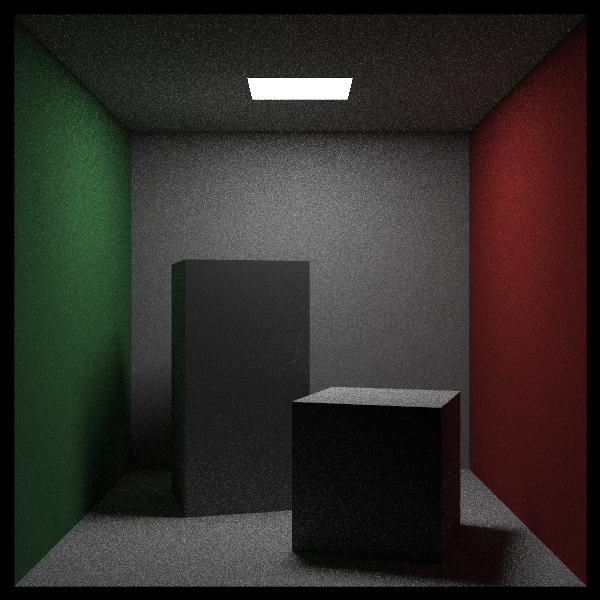
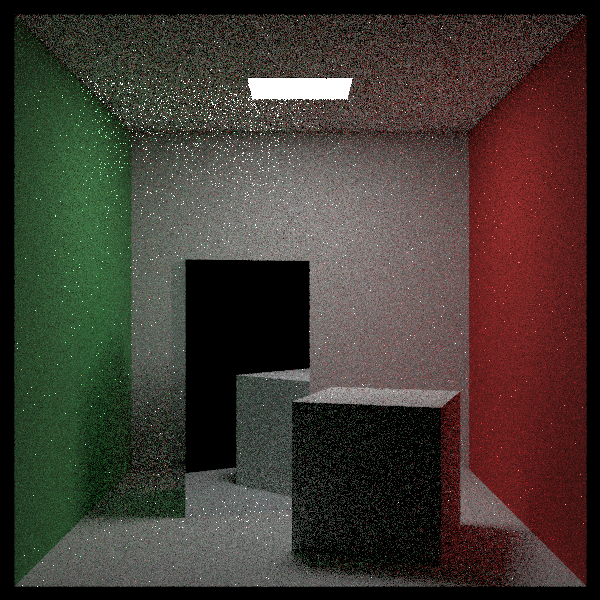
pdf for metal and dielectric

diff --git a/Assets/Editor/Tracing/Material.cs b/Assets/Editor/Tracing/Material.cs
@@ -10,12 +10,13 @@ using vec3 = UnityEngine.Vector3;
 namespace RT1
 {
     class ScatterRecord
-    { 
-        
+    {
+        public vec3 attenuation;
+        public PDF pdf;
     }
     interface Material
     {
-        bool Scatter(Ray ray, HitRecord hitRecord, out vec3 attenuation, out Ray scattered,out float pdf);
+        bool Scatter(Ray ray, HitRecord hitRecord, out ScatterRecord sRecord);
         float Scatter_PDf(Ray ray, HitRecord hitRecord, Ray scattered);
         vec3 Emitted(Ray ray, HitRecord hitRecord, float u, float v, vec3 pos);
     }
@@ -84,22 +85,45 @@ namespace RT1
             return new vec3(0, 0, 0);
         }
 
-        public bool Scatter(Ray ray, HitRecord hitRecord, out vec3 attenuation, out Ray scattered, out float pdf)
+        public bool Scatter(Ray ray, HitRecord hitRecord, out ScatterRecord sRecord)
         {
+            sRecord = new ScatterRecord();
             //half vector
             //scattered = new Ray(hitRecord.point, hitRecord.normal *0.5f + Exten.RandomHalfVecInSphere(), ray.time);
-            ONB uvw = new ONB(hitRecord.normal);
-            var nextDir = uvw.Local(Exten.RandomCosineDir());
+            //ONB uvw = new ONB(hitRecord.normal);
+            //var nextDir = uvw.Local(Exten.RandomCosineDir());
             //var nextDir = uvw.Local(Exten.RandomUniformCosineDir());
-            scattered = new Ray(hitRecord.point, nextDir, ray.time);
-            attenuation = color.sample(hitRecord.u,hitRecord.v,hitRecord.point);
-            pdf =  1.0f / (glm.dot(hitRecord.normal, nextDir) * MathF.PI);
+            //scattered = new Ray(hitRecord.point, nextDir, ray.time);
+            sRecord.attenuation = color.sample(hitRecord.u,hitRecord.v,hitRecord.point);
+            sRecord.pdf = CosinePDF.Default;
             return true;
         }
 
         public float Scatter_PDf(Ray ray, HitRecord hitRecord, Ray scattered)
         {
             return glm.dot(hitRecord.normal, scattered.direction) /MathF.PI;
+        }
+    }
+    class ConstPDF : PDF
+    {
+        private vec3 _reflected;
+
+        public ConstPDF(vec3 nextDir)
+        {
+            _reflected = nextDir;
+        }
+        public vec3 Generate(vec3 point, vec3 normal)
+        {
+            return _reflected;
+        }
+
+        public float Value(Ray ray, vec3 normal)
+        {
+            return 1;
+        }
+        public bool IsConst()
+        {
+            return true;
         }
     }
     class Metal : Material
@@ -111,9 +135,9 @@ namespace RT1
             color = c;
             fuzz = f;
         }
-        public bool Scatter(Ray ray, HitRecord hitRecord, out vec3 attenuation, out Ray scattered,out float pdf)
+        public bool Scatter(Ray ray, HitRecord hitRecord, out ScatterRecord sRecord)
         {
-            pdf = 1;
+            sRecord = new ScatterRecord();
             var normal = hitRecord.normal;
             var point = hitRecord.point;
             var reflected = Exten.reflect(ray.direction, normal);
@@ -121,8 +145,8 @@ namespace RT1
             {
                 reflected = reflected + fuzz * Exten.RandomVecInSphere();
             }
-            scattered = new Ray(point, reflected, ray.time);
-            attenuation = color;
+            sRecord.attenuation = color;
+            sRecord.pdf = new ConstPDF(reflected);
             return glm.dot(ray.direction, normal) < 0;
         }
         public vec3 Emitted(Ray ray, HitRecord hitRecord, float u, float v, vec3 pos)
@@ -151,11 +175,9 @@ namespace RT1
             return _text.sample(u, v, pos);
         }
 
-        public bool Scatter(Ray ray, HitRecord hitRecord, out vec3 attenuation, out Ray scattered,out float pdf)
+        public bool Scatter(Ray ray, HitRecord hitRecord, out ScatterRecord sRecord)
         {
-            scattered = null;
-            attenuation = new vec3();
-            pdf = 1;
+            sRecord = null;
             return false;
         }
 
@@ -189,12 +211,12 @@ namespace RT1
         {
             return new vec3(0, 0, 0);
         }
-        public bool Scatter(Ray ray, HitRecord hitRecord, out vec3 attenuation, out Ray scattered,out float pdf)
+        public bool Scatter(Ray ray, HitRecord hitRecord, out ScatterRecord sRecord)
         {
-            pdf = 1;
+            sRecord = new ScatterRecord();
             var normal = hitRecord.normal;
             var point = hitRecord.point;
-            attenuation = new vec3(1.0f, 1.0f, 1.0f);
+            sRecord.attenuation = new vec3(1.0f, 1.0f, 1.0f);
             float eta = ref_idx;
             var n = normal;
 
@@ -219,12 +241,13 @@ namespace RT1
             if (Exten.rand01() < prob)
             {
                 vec3 reflected = Exten.reflect(ray.direction, normal);
-                scattered = new Ray(point, reflected, ray.time);
+                sRecord.pdf = new ConstPDF(reflected);
             }
             else
             {
-                scattered = new Ray(point, r, ray.time);
+                sRecord.pdf = new ConstPDF(r);
             }
+
             return true;
 
         }

diff --git a/Assets/Editor/Tracing/AssetsTest.cs b/Assets/Editor/Tracing/AssetsTest.cs
@@ -31,19 +31,16 @@ namespace RT1
         static Sphere s3 = new Sphere(new vec3(1, 0, -1), 0.5f, new Metal(new vec3(0.8f, .6f, .2f)));
         static Sphere s4 = new Sphere(new vec3(-1, 0, -1), 0.5f, new Dieletric(2.4f));
         static Hitable scene = new HitList(new Hitable[] { s1, s2, s3, s4 });
-        static PDF cosPDf = new CosinePDF();
-        static PDF lightPDf;
-        static PDF mixturePdf;
+        static PDF _lightPDf;
         static vec3 RayTracing(Ray r, int depth)
         {
             HitRecord record;
             if (scene.Hit(r, 0.001f, 100000.0f, out record))
             {
                 Ray nextRay;
-                vec3 color;
                 var emmited = record.mat.Emitted(r,record, record.u, record.v, record.point);
-                float pdf = 1.0f;
-                if (depth < 50 && record.mat.Scatter(r, record, out color, out nextRay,out pdf))
+                ScatterRecord sRecord;
+                if (depth < 50 && record.mat.Scatter(r, record, out sRecord))
                 {
                     //if(Exten.rand01() < 0.5)
                     //{
@@ -65,13 +62,17 @@ namespace RT1
                     //    pdf = l * l  /(nextRay.direction.y * area);
                     //}
 
-
+                    var mixturePdf = sRecord.pdf;
+                    if (!mixturePdf.IsConst())
+                    {
+                        mixturePdf = new MixPDF(sRecord.pdf, _lightPDf);
+                    }
                     var nextdir = mixturePdf.Generate(record.point, record.normal);
                     nextRay = new Ray(record.point, nextdir, r.time);
-                    pdf = mixturePdf.Value(nextRay, record.normal); 
+                    float pdf = mixturePdf.Value(nextRay, record.normal); 
                     var nextColor = RayTracing(nextRay, depth + 1);
                     float scatterPdf = record.mat.Scatter_PDf(r, record, nextRay);
-                    return emmited +   color.mul(nextColor) * scatterPdf / pdf;
+                    return emmited +   sRecord.attenuation.mul(nextColor) * scatterPdf / pdf;
                 }
                 else
                 {
@@ -221,6 +222,8 @@ namespace RT1
             var red = new Lambertian(new vec3(0.65f, 0.05f, 0.05f));
             var white = new Lambertian(new vec3(0.73f, 0.73f, 0.73f));
             var green = new Lambertian(new vec3(0.12f, 0.45f, 0.15f));
+            Material aluminum = new Metal(new vec3(0.8f, 0.85f, 0.88f));
+
             var light = new DiffuseLight(new SolidTexture(new vec3(15, 15, 15)));
             int i = 0;
             Hitable[] hitables = new Hitable[8];
@@ -232,14 +235,13 @@ namespace RT1
             hitables[i++] = new XZRect(555, 0, 555, 0, 555, white,true);
             hitables[i++] = new XYRect(555, 0, 555, 0, 555, white,true);
 
-            Hitable box = new Box(new vec3(0, 0, 0), new vec3(165, 165, 165), white);
+            Hitable box = new Box(new vec3(0, 0, 0), new vec3(165, 165, 165), aluminum);
             box = new Tranlate(new RotateY(box, -18), new vec3(130, 0, 65));
             hitables[i++] = box;
             Hitable box2 = new Box(new vec3(0, 0, 0), new vec3(165, 330, 165), white);
             box2 = new Tranlate(new RotateY(box2, 15), new vec3(265, 0, 295));
             hitables[i++] = box2;
-            lightPDf = new LightPDF(lightRect);
-            mixturePdf = new MixPDF(cosPDf, lightPDf);
+            _lightPDf = new LightPDF(lightRect);
             return new HitList(hitables.Where(p=>p!=null).ToArray());
         }
 #if UNITY_EDITOR

diff --git a/Assets/Editor/Tracing/PDF.cs b/Assets/Editor/Tracing/PDF.cs
@@ -13,6 +13,7 @@ namespace RT1
     {
         float Value(Ray ray, vec3 normal);
         vec3 Generate(vec3 point,vec3 normal);
+        bool IsConst();
     }
     class CosinePDF : PDF
     {
@@ -32,6 +33,13 @@ namespace RT1
             }
             return cos /MathF.PI;
         }
+
+        public bool IsConst()
+        {
+            return false;
+        }
+
+        public static PDF Default = new CosinePDF();
     }
 
     class LightPDF : PDF
@@ -48,6 +56,11 @@ namespace RT1
             var z = Exten.randRange(_lightArea._z1, _lightArea._z2);
             var onLight = new vec3(x, _lightArea._y, z);
             return glm.normalize(onLight - point);
+        }
+
+        public bool IsConst()
+        {
+            return false;
         }
 
         public float Value(Ray ray, vec3 normal)
@@ -69,6 +82,7 @@ namespace RT1
     {
         PDF _pdf1;
         PDF _pdf2;
+
         public MixPDF(PDF pdf1,PDF pdf2)
         {
             _pdf1 = pdf1;
@@ -86,6 +100,10 @@ namespace RT1
         public float Value(Ray ray, vec3 normal)
         {
             return 0.5f * _pdf1.Value(ray, normal) + 0.5f * _pdf2.Value(ray, normal);
+        }
+        public bool IsConst()
+        {
+            return false;
         }
     }
 }
